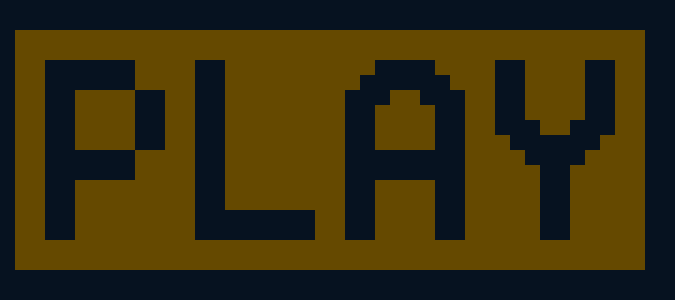
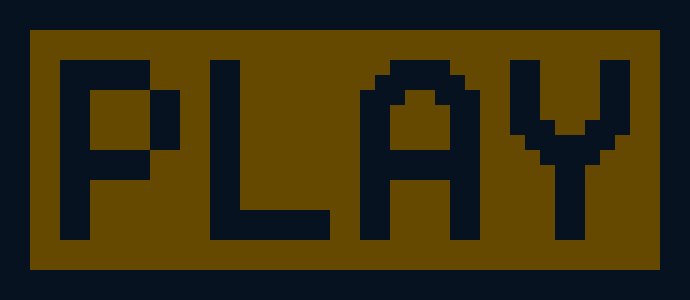
button hover works now

diff --git a/main.py b/main.py
@@ -21,40 +21,38 @@ clock = pygame.time.Clock()
 
 
 #We should define a sprite class and all the types of stuff we have on the screen are subclasses of sprite
-officeImg = pygame.image.load("resources/desk.jpg")
-officeImg = pygame.transform.scale(officeImg, (width, height))
-menuImg = pygame.image.load("resources/menu.png")
-menuImg = pygame.transform.scale(menuImg, (int(width/12), int(width/12)))
-mapIconImg = pygame.image.load("resources/mapIcon.png")
-mapIconImg = pygame.transform.scale(mapIconImg, (int(width/12), int(width/12)))
+officeImg =  pygame.image.load("resources/desk.jpg")
+officeImg =  pygame.transform.scale(officeImg, (width, height))
+menuImg =    pygame.image.load("resources/menu.png")
+menuImg =    pygame.transform.scale(menuImg, (int(width/12), int(width/12)))
+
 
 mainGameSprites =  [guiClasses.sprite(officeImg,  (0, 0),                             (width, height),                "officeImg"),
-                    guiClasses.sprite(menuImg,    (0, 0),                             (int(width/12), int(width/12)), "menuImg"),
-                    guiClasses.sprite(mapIconImg, (width - mapIconImg.get_width(),0), (int(width/12), int(width/12)), "mapIconImg")]
+                    guiClasses.sprite(menuImg,    (0, 0),                             (int(width/12), int(width/12)), "menuImg"),]
 
-menuBgImg = pygame.image.load("resources/deskJonkers.jpg")
-menuBgImg = pygame.transform.scale(menuBgImg, (width, height))
-playImg = pygame.image.load("resources/play.png")
-playImg = pygame.transform.scale(playImg, (int(height/6*playImg.get_width()/playImg.get_height()), int(height/6)))
+menuBgImg =  pygame.image.load("resources/deskJonkers.jpg")
+menuBgImg =  pygame.transform.scale(menuBgImg, (width, height))
+playImg =    pygame.image.load("resources/play.png")
+playImg =    pygame.transform.scale(playImg, (int(height/6*playImg.get_width()/playImg.get_height()), int(height/6)))
 optionsImg = pygame.image.load("resources/options.png")
 optionsImg = pygame.transform.scale(optionsImg, (int(height/6*optionsImg.get_width()/optionsImg.get_height()), int(height/6)))
-exitImg = pygame.image.load("resources/exit.png")
-exitImg = pygame.transform.scale(exitImg, (int(height/6*exitImg.get_width()/exitImg.get_height()), int(height/6)))
+exitImg =    pygame.image.load("resources/exit.png")
+exitImg =    pygame.transform.scale(exitImg, (int(height/6*exitImg.get_width()/exitImg.get_height()), int(height/6)))
 
-playImgHovered = pygame.image.load("resources/playHovered.png")
-playImgHovered = pygame.transform.scale(playImg, (int(height/6*playImg.get_width()/playImg.get_height()), int(height/6)))
+playImgHovered =    pygame.image.load("resources/playHovered.png")
+playImgHovered =    pygame.transform.scale(playImgHovered, (int(height/6*playImg.get_width()/playImg.get_height()), int(height/6)))
 optionsImgHovered = pygame.image.load("resources/optionsHovered.png")
-optionsImgHovered = pygame.transform.scale(optionsImg, (int(height/6*optionsImg.get_width()/optionsImg.get_height()), int(height/6)))
-exitImgHovered = pygame.image.load("resources/exitHovered.png")
-exitImg = pygame.transform.scale(exitImg, (int(height/6*exitImg.get_width()/exitImg.get_height()), int(height/6)))
+optionsImgHovered = pygame.transform.scale(optionsImgHovered, (int(height/6*optionsImg.get_width()/optionsImg.get_height()), int(height/6)))
+exitImgHovered =    pygame.image.load("resources/exitHovered.png")
+exitImgHovered =    pygame.transform.scale(exitImgHovered, (int(height/6*exitImg.get_width()/exitImg.get_height()), int(height/6)))
 
 menuSprites =  [guiClasses.sprite(menuBgImg,  (0,0),                    (width, height),                                                               "menuBgImg"),
                 guiClasses.sprite(playImg,    (1*width/2, 2*height/12), (int(height/6*playImg.get_width()/playImg.get_height()), int(height/6)),       "playImg"),
                 guiClasses.sprite(optionsImg, (1*width/2, 5*height/12), (int(height/6*optionsImg.get_width()/optionsImg.get_height()), int(height/6)), "optionsImg"),
                 guiClasses.sprite(exitImg,    (1*width/2, 8*height/12), (int(height/6*exitImg.get_width()/exitImg.get_height()), int(height/6)),       "exitImg")]
 
-mapImg = pygame.image.load("resources/map.jpg")
-mapImg = pygame.transform.scale(mapImg, (width, height))
+mapImg =  pygame.image.load("resources/map.jpg")
+mapImg =  pygame.transform.scale(mapImg, (width, height))
 backImg = pygame.image.load("resources/back.png")
 backImg = pygame.transform.scale(backImg, (int(width/12), int(height/12)))
 
@@ -93,8 +91,6 @@ while gameState:
         if theSprite.detectCollision(pos):
             hoveredSprites.append(theSprite.name)
 
-    print("Clicked Sprites: " + str(clickedSprites))
-    print("Hovered Sprites: " + str(hoveredSprites))
 
     for surface in gameVisuals[gameState]:
         window.blit(surface.image, surface.position)
@@ -110,29 +106,22 @@ while gameState:
             elif item == "exitImg":
                 gameState = 0
         for item in hoveredSprites:
-            if item == "playImg":
-                pass
-            else:
-                pass
-            if item == "optionsImg":
-                pass
-            else:
-                pass
-            if item == "exitImg":
-                pass
-            else:
-                pass
+            for display in menuSprites:
+                if display.name == item and display.name == "playImg":
+                    window.blit(playImgHovered, display.position)
+                elif display.name == item and display.name == "optionsImg":
+                    window.blit(optionsImgHovered, display.position)
+                elif display.name == item and display.name == "exitImg":
+                    window.blit(exitImgHovered, display.position)
 
     elif gameState == 3: #Main office scene
         for item in clickedSprites:
             if item == "menuImg":
                 gameState = 2
-            elif item == "mapIconImg":
-                gameState = 4
-    elif gameState == 4: #Map scene
-        for item in clickedSprites:
-            if item == "backImg":
-                gameState = 3
+            elif item == "":
+                pass
+    elif gameState == 4: #scene
+        pass
     elif gameState == 5: #Options scene
         pass
 
